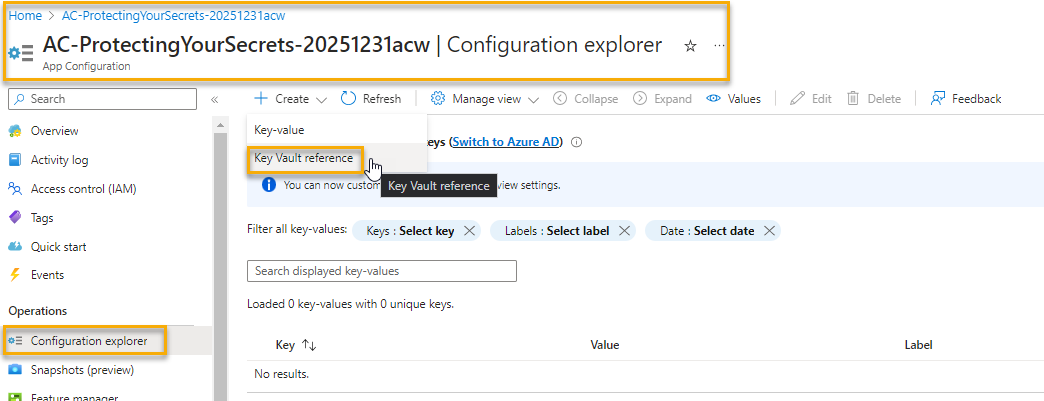
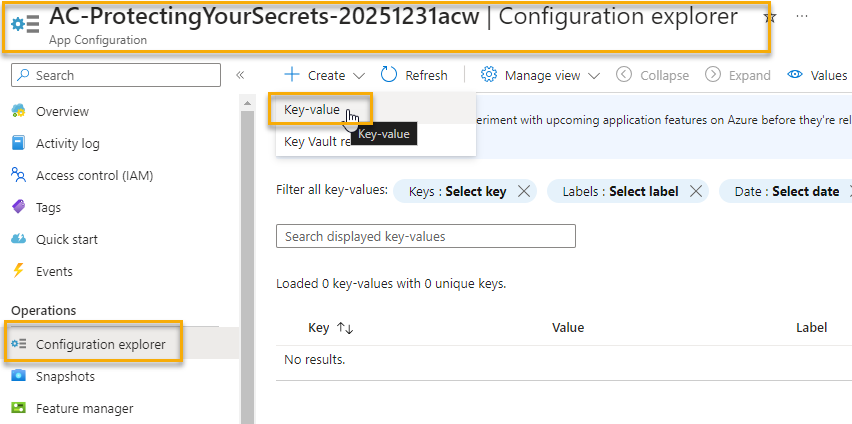
updates for part 3 completed

diff --git a/Part3-AzureAppConfiguration.md b/Part3-AzureAppConfiguration.md
@@ -8,13 +8,31 @@ Azure App configuration has two types of key-value pairs that you can use.  The 
 
 For example, you could put the name of the storage account and the container as a shared plain text value which could be leveraged from any application.  However, the database connection and the SAS token need to be secured, so you would use a KeyVault Reference value for those.
 
-For brevity, this walkthrough will only address the KeyVault Reference values, but a shared text value would be added in the same way.
+In order to demonstrate both, we can add a shared plain text value and a KeyVault Reference value to the App Configuration.
+
+These changes will require some code changes as well, so there will be a couple of moments to get some more coffee.  
+
+A really good thought here is something like a shared API key for a service that is used across multiple applications.  This way, if the key changes, you only need to update it in one place.  The root URI for the API could be a shared, plain text value, and the API key itself could be a KeyVault Reference.
 
 1. Navigate to the App Configuration created at the start of the walkthrough.  You can find it by searching for `AC-ProtectingYourSecrets` in the Azure portal.
 
     Open the `Configuration Explorer` then select `Create` -> `Key value` to add a new key-value pair that is NOT a Key Vault reference.  
 
     ![](images/Part3/image0001-addkeyvaluepairtoappconfiguration.png)  
+
+    Add the following key-value pair:
+    - Key: `APIDetails:URI`
+    - Value: `https://somefunctionapp.azurewebsites.net/itsnotreal/example?code=notarealsiteatall`
+    - Label: [leave blank]
+    - Content Type: [leave blank]
+
+    Hit `Apply` to save the new key-value pair.  
+
+    ![](images/Part3/image0001.5-simplekvpairplaintext.png)  
+
+1. Add the database connection string and the storage account SAS token as Key Vault references.  
+
+    Select `Create` -> `Key Vault Reference` to add a new key-value pair that is a Key Vault reference.  
 
     Add the following key-value pair, using the browse option to select the appropriate secret from your Key Vault:
 
@@ -40,11 +58,13 @@ For brevity, this walkthrough will only address the KeyVault Reference values, b
 
     ![](images/Part3/image0003-newkeyvaultreferencesastoken.png)  
 
-## Task 2 - Authorize App Configuration to Access Key Vault and authorize App Service to access App Configuration as a config data reader.
+You have now set the app configuration to read from key vault and share both common and protected shared values across multiple applications.  The next step is to authorize the App Configuration to access the Key Vault.  
+
+## Task 2 - Authorize App Configuration to Access Key Vault
 
 The App configuration will also need to be authorized to connect and get Key vault Secrets.  This is done by adding an access policy to the Key Vault and a managed identity to the App Configuration.
 
-This is the same process as was done for the App Service in the previous part (part 2).  Repeat that process to 
+This is the same process as was done for the App Service in the previous part (part 2).  Repeat that process to add the App Configuration as a Key Vault access policy.
 
 1. Add a system managed identity to the App Configuration and get the Object Principal ID
 
@@ -53,6 +73,12 @@ This is the same process as was done for the App Service in the previous part (p
 1. Add an access policy to the Key Vault for the App Configuration with `Get` Secrets permissions.
 
 ![](images/Part3/image0005-appconfigurationkvgetsecrets.png)  
+
+## Task 3 - Authorize the app service to read from the app configuration  
+
+The app service must have App Configuration Data Reader permissions to read from the App Configuration.  This is done by adding a role assignment to the App Configuration for the App Service.  
+
+>**Note**: You must be `owner` or `user access administrator` on the resource group or subscription to complete this task.
 
 1. To allow the app service to read from the app configuration, the app service identity must be authorized.
 
@@ -68,7 +94,9 @@ Set the new role assignment with the following values:
 
     ![](images/Part3/image0007-AppConfigurationDataReaderRole.png)  
 
-- Members: hit the `+ Select Members` button, then paste the name of the App Service and select it, then hit `Select`
+- Select `Managed Identity` for the Assign Access to.  
+
+- Members: hit the `+ Select Members` button, then browse to get the app service:
 
     ![](images/Part3/image0008-AppServicePrincipalForRoleAssignment.png)  
 
@@ -86,78 +114,47 @@ With the app configuration in place, access to Key Vault from the app service re
 
 1. Remove the existing values for the database connection string and the SAS token from the App Service configuration settings.
 
-    First, you will need to delete the existing connections, which will break the website.  This will show that the connections are no longer working before getting them back through the shared app configuration.
+    >**NOTE:** Do not remove the app configuration connection string or you won't be able to connect and get the values.
 
-    >**Note:** In this walkthrough, both settings are going through the App Configuration.  You are easily able to mix and match.  For example, if you just want to move the SAS token or the Connection String, you could do that, and just leave the other value set directly to the Key Vault reference. 
+    First, you will need to delete the existing connections, which will break the website.  This will show that the connections are no longer working before getting them back through the shared app configuration.
 
     ![](images/Part3/image0011-referencesremoved.png)  
 
-1. Update the `AzureAppConfigConnection` value.
+    Both the database connection string and the sas token should be removed from the App Service configuration settings.
 
-    As strange as it may seem, the connection string value will not be used from the app service.  Instead, all that is needed is the URI for the Azure App Configuration.  This is because the app service will use the managed identity to access the App Configuration, and the App Configuration will use the managed identity to access the Key Vault.
-
-    The URI for the endpoint of the app configuration can be found on the overview page of the App Configuration:
-
-    ![](images/Part3/image0012-acurl.png)  
-
-    The value should be similar to:
-
-    ```text
-    https://ac-protectingyoursecrets-20251231acw.azconfig.io
-    ```  
-
-    Copy the URL and paste it for the value of the `AzureAppConfigConnection` setting in the App Service configuration settings.
-
-    ![](images/Part3/image0013-appconfigurationsettingupdated.png)  
-
-    >**Note:** the application will still currently be broken as a code update is needed to leverage the App Configuration values.  This will be done in the next task.
+    ![](images/Part3/image0011.5-nosasreferenceeither.png)  
 
 ## Task 4 - Update the code to leverage the shared values
 
 For this next part, the code needs to be updated in the Application to work against the Azure App Configuration.
 
-1. Open the `project.cs` file and add the following code.
+1. Open the project and go to the `program.cs` file. 
+
+    Find the `//TODO: Add the Azure App Configuration code here.` comment and add the following code:
 
     ```csharp  
+    var appConfigConnection = builder.Configuration.GetConnectionString("AzureAppConfigConnection");
+
     builder.Host.ConfigureAppConfiguration((hostingContext, config) =>
     {
-        var settings = config.Build();
-
-        ////by default, use the default credential:
-        TokenCredential credential = new DefaultAzureCredential();
-        var env = settings["Application:Environment"];
-
-        //without keyvault:
-        if (env == null || !env.Trim().Equals("develop", StringComparison.OrdinalIgnoreCase))
+        config.AddAzureAppConfiguration(options =>
         {
-            //if at azure, use ManagedIdentityCredential and AppConfiguration URI endpoint
-            credential = new ManagedIdentityCredential();
-
-            config.AddAzureAppConfiguration(options =>
-                options.Connect(new Uri(settings["AzureAppConfigConnection"]), credential)
-                    .ConfigureKeyVault(kv => { kv.SetCredential(credential); }));
-        }
-        else
-        {
-            //from local app, use connection string
-            config.AddAzureAppConfiguration(options =>
-                    options.Connect(settings["AzureAppConfigConnection"])
-                            .ConfigureKeyVault(kv => { kv.SetCredential(credential); }));
-        }
+            options.Connect(appConfigConnection);
+            options.ConfigureKeyVault(options =>
+            {
+                options.SetCredential(new DefaultAzureCredential());
+            });
+        });
     });
     ```
 
-    Notice that this code uses the managed identity from the App Service to access the App Configuration, and uses the connection string directly for local development (so you could point to a second shared app config instead of the production version to easily separate concerns).  
+>**Note:** because the app configuration is now leveraging Key Vault, the configuration must configure Key Vault to use whatever the default credential is.  In this case, it is the managed identity of the App Service at Azure or your default credential if local.  
+
+If you didn't want to do key vault right away, you would need to remove the key vault references from the app configuration and just use the app configuration connection string without configuration.  This would allow you to use the app configuration without key vault.
 
 1. After updating the code, run it locally and validate that the website is working as expected.
 
     It is important to note that this code change requires your personal developer credential to have access to app config and azure key vault.  If you are the owner or contributor on the subscription you should be ok.  If not, you should add your permissions to "Get" secrets in the key vault and also be a data reader in the app config.
-
-    >**Important:** It is important to note that once you make this change your local instance will also be connected to the KeyVault database by the connection string as these settings will override even your local secrets (debug the app to see the values for the connection string).  This is why it is important to have a separate app config for local development.
-
-    To prove this out, you could now remove the connection string and sas token from your local secrets and the app will still work.
-
-    ![](images/Part3/image0014-localsecretsremovedconnectionstringandsastoken.png)  
 
 1. Push the changes to GitHub and let the application publish via CI/CD.
 
